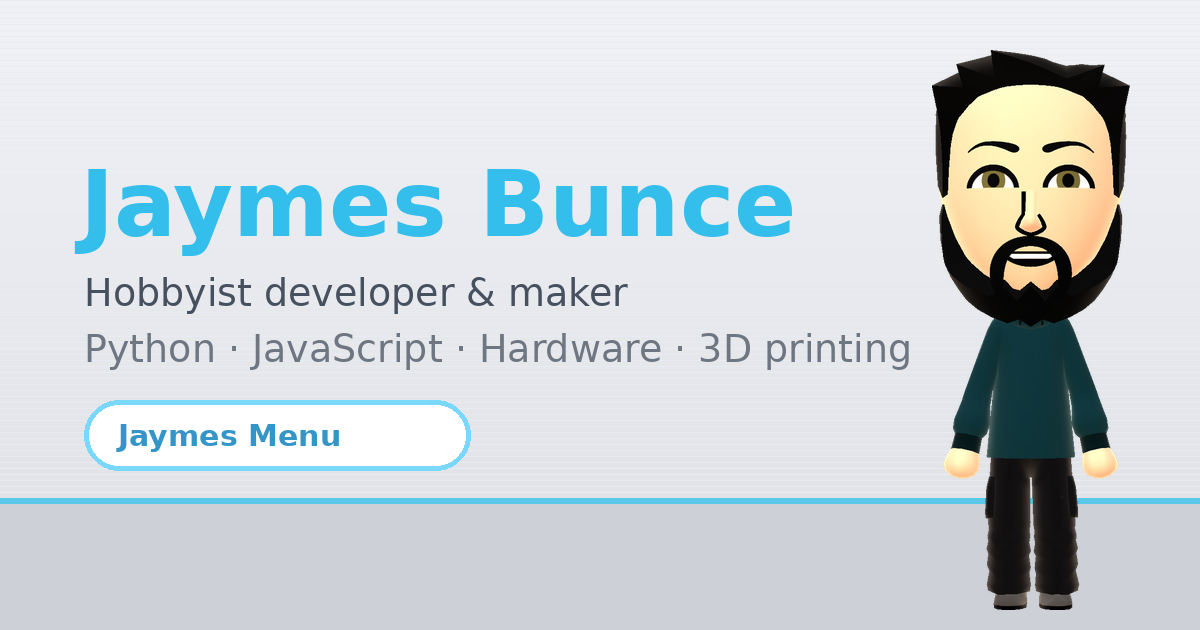
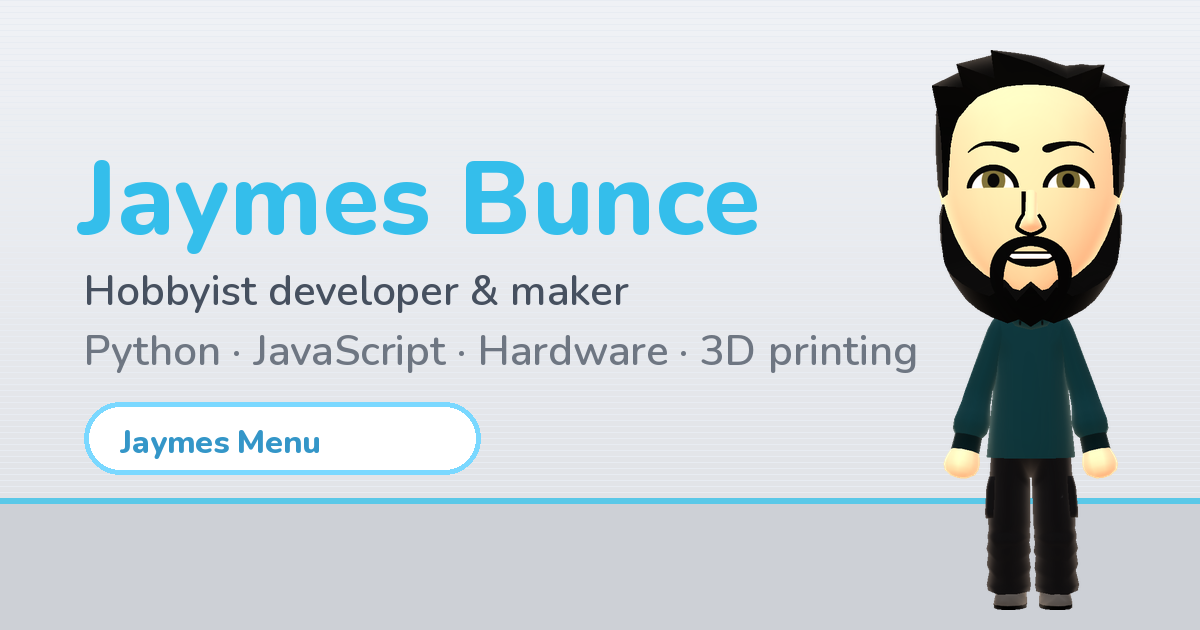
feat: SEO and no-JS fallback; share image in real Nunito
- JSON-LD Person data, canonical URL, theme-color, robots.txt, sitemap.xml
- <noscript> fallback with name, tagline and quick links (resume, GitHub,
  LinkedIn, MakerWorld) for visitors/crawlers without JavaScript
- Regenerate the Open Graph image using the bundled Nunito

Claude-Session: https://claude.ai/code/session_016ZVKChtT4z1q8EBmxDEG2f

diff --git a/index.html b/index.html
@@ -22,9 +22,40 @@
     <meta name="twitter:title" content="Jaymes Bunce" />
     <meta name="twitter:description" content="Hobbyist developer & maker — Python, JavaScript, hardware, 3D printing." />
     <meta name="twitter:image" content="https://www.jaymesbunce.com/og-image.png" />
+    <link rel="canonical" href="https://www.jaymesbunce.com/" />
+    <meta name="theme-color" content="#1a6ca8" />
+    <script type="application/ld+json">
+      {
+        "@context": "https://schema.org",
+        "@type": "Person",
+        "name": "Jaymes Bunce",
+        "url": "https://www.jaymesbunce.com/",
+        "jobTitle": "System Administrator",
+        "description": "Hobbyist developer & maker: Python, JavaScript, hardware, 3D printing.",
+        "image": "https://www.jaymesbunce.com/og-image.png",
+        "sameAs": [
+          "https://github.com/Haloman363",
+          "https://www.linkedin.com/in/jaymes-bunce",
+          "https://makerworld.com/en/@Haloman363"
+        ]
+      }
+    </script>
     <script type="module" src="/src/main.jsx"></script>
   </head>
   <body>
     <div id="root"></div>
+    <noscript>
+      <main style="max-width:560px;margin:0 auto;padding:48px 24px;font-family:system-ui,sans-serif;line-height:1.6;color:#fff;background:#1a6ca8;min-height:100vh;box-sizing:border-box">
+        <h1 style="font-size:32px;margin:0 0 4px">Jaymes Bunce</h1>
+        <p style="margin:0 0 24px;opacity:.9">Hobbyist developer &amp; maker: Python, JavaScript, hardware, 3D printing.</p>
+        <p>This site is an interactive Wii-style menu and needs JavaScript. Here are the quick links:</p>
+        <ul>
+          <li><a style="color:#fff" href="/resume/Jaymes-Bunce-Resume.pdf">Resume (PDF)</a></li>
+          <li><a style="color:#fff" href="https://github.com/Haloman363">GitHub</a></li>
+          <li><a style="color:#fff" href="https://www.linkedin.com/in/jaymes-bunce">LinkedIn</a></li>
+          <li><a style="color:#fff" href="https://makerworld.com/en/@Haloman363">MakerWorld</a></li>
+        </ul>
+      </main>
+    </noscript>
   </body>
 </html>

diff --git a/TODO.md b/TODO.md
@@ -32,11 +32,12 @@ Running list for the portfolio. Check items off as they land. Items marked **(ne
 - [x] **Tablet grid:** tiles keep their native shape and are sized from the tighter of available width/height (container query units), centered as one group. Also fixes a clipping bug from the earlier aspect-ratio change where the last row ran under the footer on short landscape tablets (e.g. 1000x700).
 - [x] **Open-channel zoom on phones:** `zoomVariants` in `ChannelBanner.jsx` assumes an 80% viewport height, phones use 75%, so the zoom origin is slightly off.
 - [x] **Accessibility pass:** focus rings, tile names announced once, OS reduced-motion honored for all framer-motion animations. (Still worth a screen-reader/contrast audit.)
-- [x] **Share image:** `public/og-image.png` (1200x630) wired into OG/Twitter tags. Uses a fallback font; swap in a Nunito version if desired.
+- [x] **Share image:** `public/og-image.png` (1200x630) wired into OG/Twitter tags, rendered with the real Nunito. A copy lives in the profile repo (`Haloman363/haloman363`, `assets/portfolio-banner.png`); re-copy it there if you change this one.
 - [ ] Test on real iOS Safari / Android Chrome (all mobile testing so far was headless Chromium emulation).
 
 ## Done
 
+- [x] SEO/no-JS: JSON-LD `Person` data, canonical + theme-color, robots.txt, sitemap.xml, and a `<noscript>` fallback with your key links.
 - [x] Nunito self-hosted via @fontsource (4 weights, Latin, ~65 KB) and preloaded; Google Fonts links removed. NB: earlier screenshots in this project used a fallback font because Google Fonts was unreachable from the build sandbox.
 - [x] `npm audit fix`: vite 8.0.3 -> 8.3.3, 0 known vulnerabilities (all were dev-server issues, not the shipped site).
 - [x] CI: lint gate before every deploy + `ci.yml` (lint, build, browser smoke test on every push/PR). Smoke test is report-only for now; once it has run reliably on GitHub, make `deploy.yml` depend on it.
